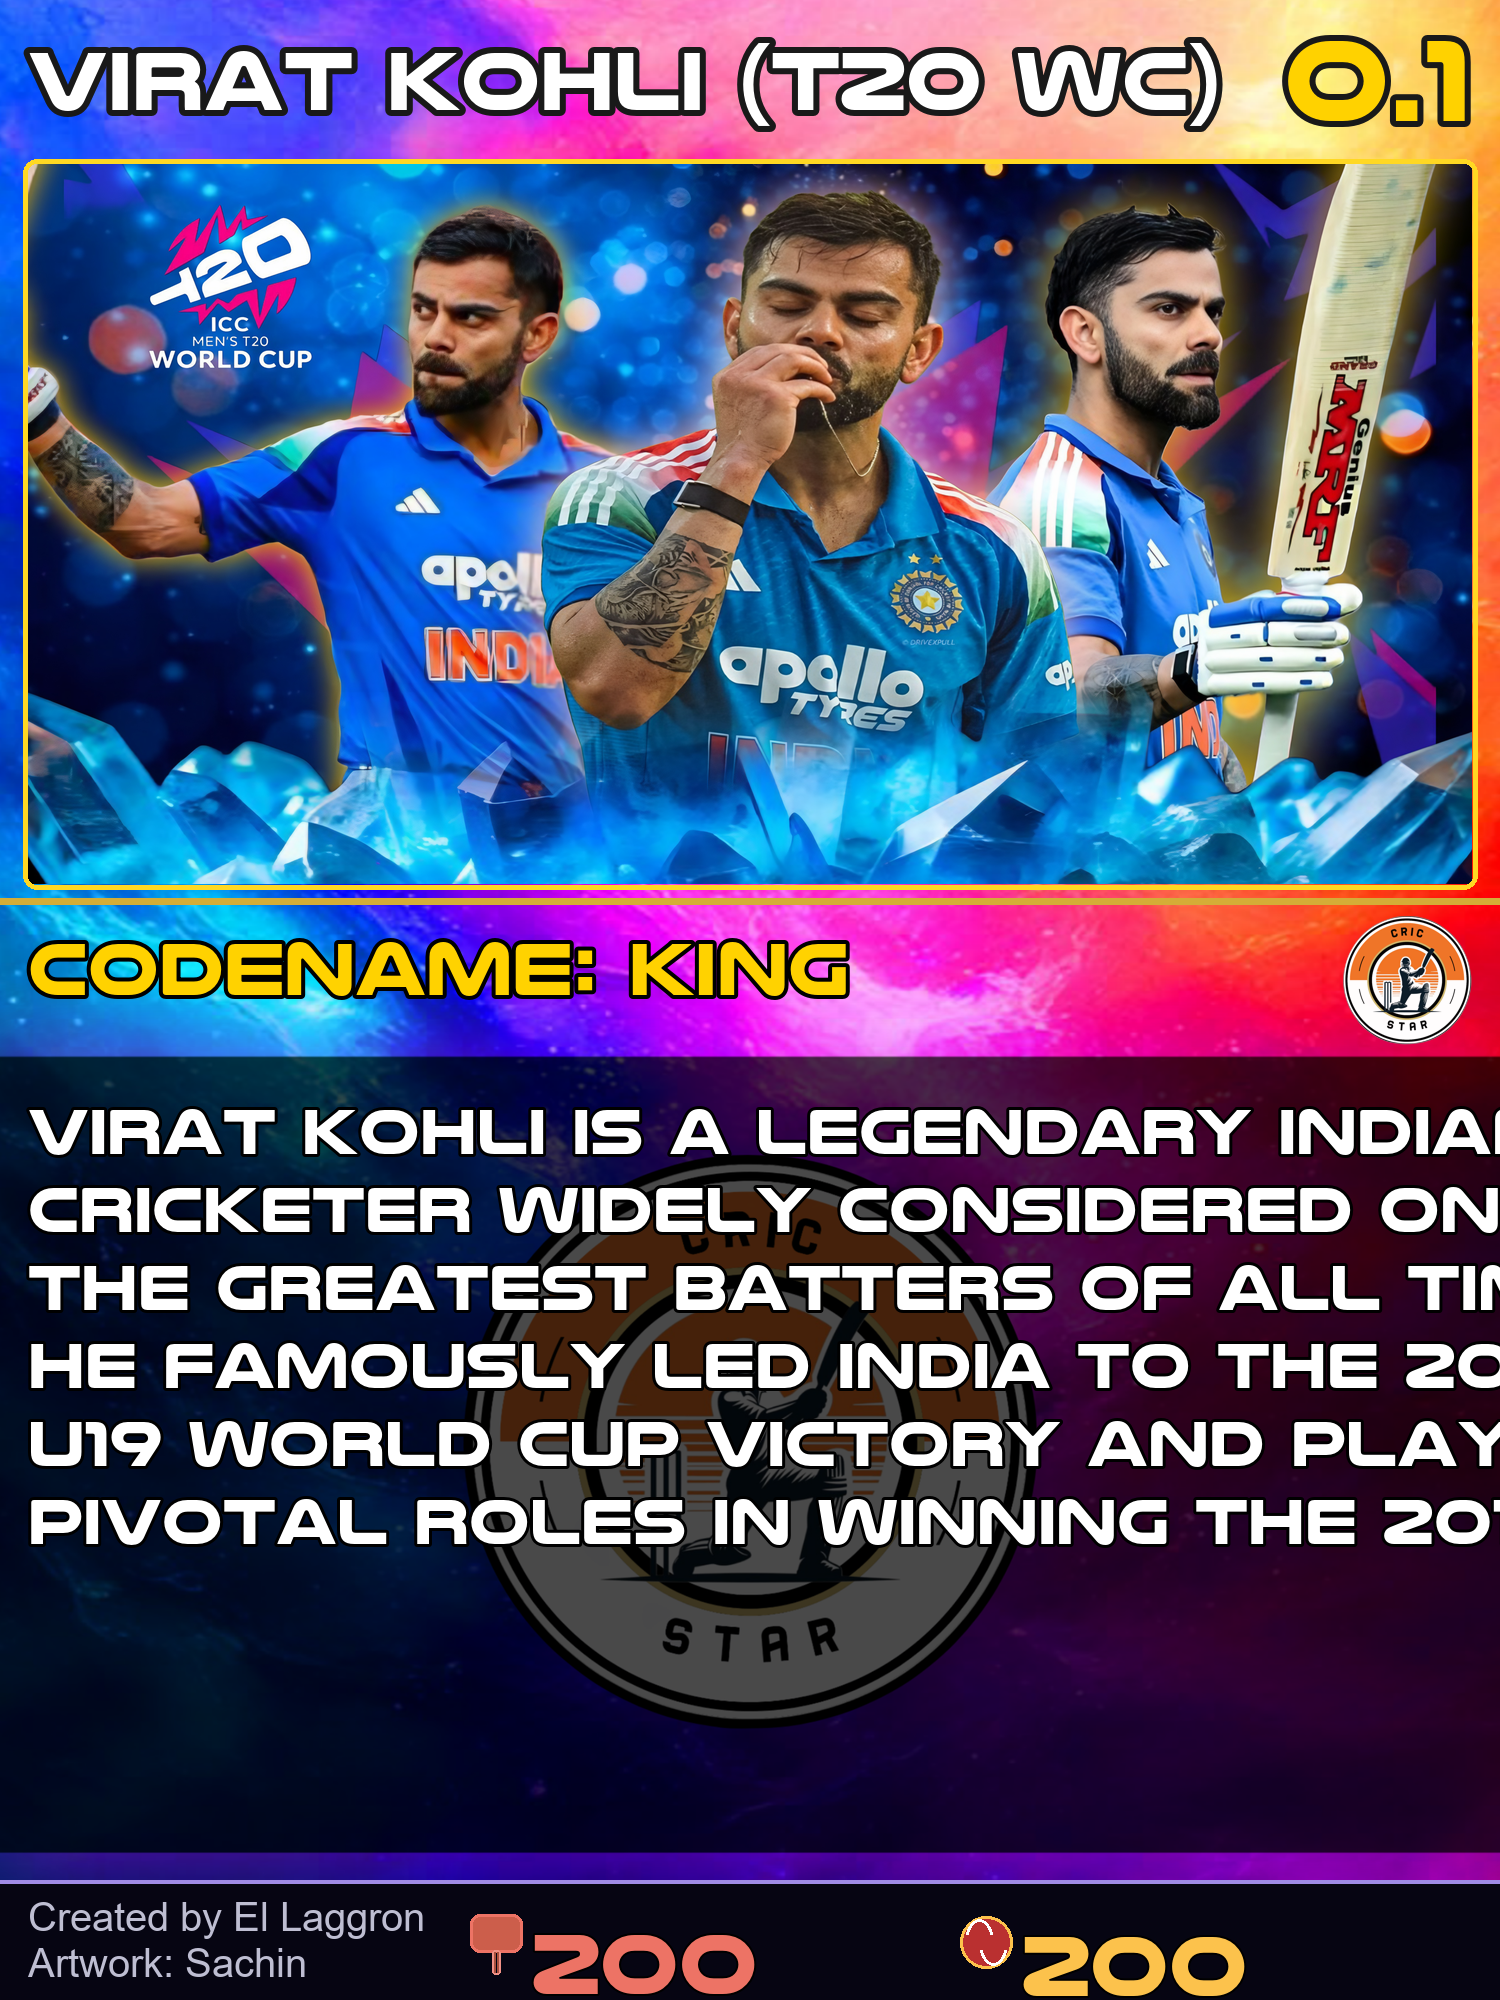
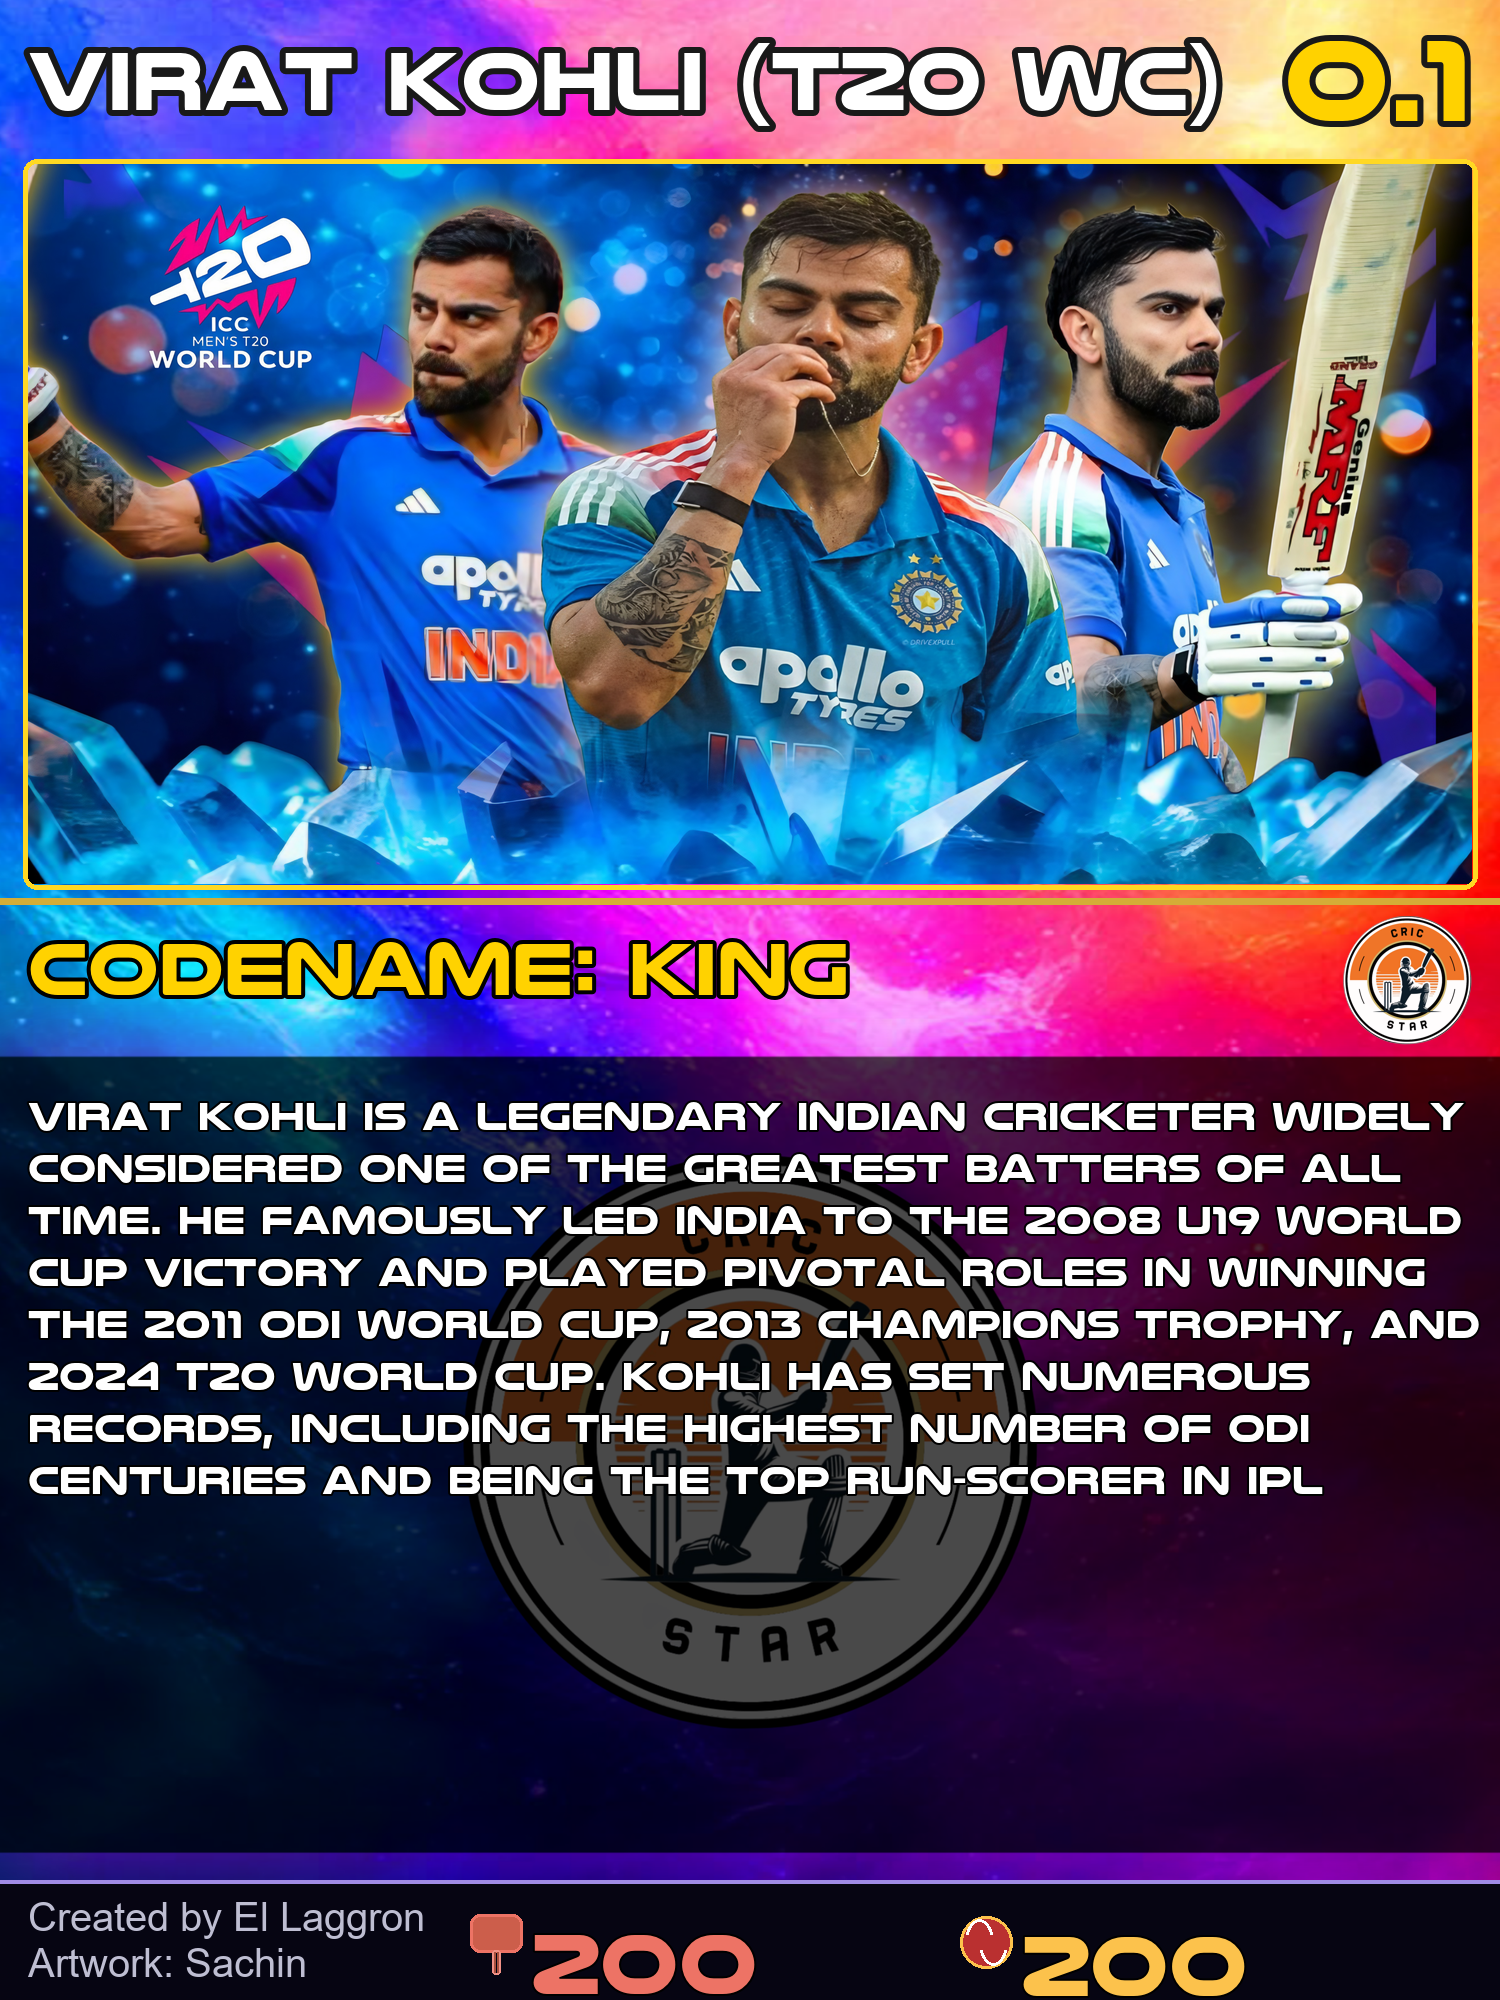
Add ability to specify a custom display name for player cards
Update card creation and editing commands to include an optional `display_name` field, allowing for custom text on card headers separate from the internal player identifier.

Replit-Commit-Author: Agent
Replit-Commit-Session-Id: 9b9d6ef0-e62e-450b-9834-678e2d92ae2f
Replit-Commit-Checkpoint-Type: full_checkpoint
Replit-Commit-Event-Id: 60f8ccf9-deaa-4bd9-9327-0f224cd27880
Replit-Helium-Checkpoint-Created: true

Changed region(s): [[0.0, 0.527, 1.0, 0.775]]

diff --git a/cricstar/packages/admin/cog.py b/cricstar/packages/admin/cog.py
@@ -386,7 +386,8 @@ class Admin(commands.Cog):
     @commands.hybrid_command(name="cardmaker")
     @checks.is_superuser()
     @app_commands.describe(
-        player_name="Unique name of the cricketer",
+        player_name="Unique identifier name of the cricketer (used for DB/file lookup)",
+        display_name="Name shown on the card header — if blank, player_name is used",
         codename="Codename shown on the card (e.g. KING KOHLI)",
         description="Description text shown on the card",
         bat_score="Bat / health score shown on left (e.g. 342)",
@@ -423,6 +424,7 @@ class Admin(commands.Cog):
         event: str = "none",
         tradeable: bool = True,
         spawnable: bool = True,
+        display_name: str = "",
     ):
         """
         Generate a Dembele-style cricket card and add it to the database.
@@ -431,6 +433,9 @@ class Admin(commands.Cog):
         background: preset name or URL. foreground: URL or saved preset name.
         """
         await ctx.defer()
+
+        # display_name is what shows on the card header; player_name is used for slug/file
+        card_name = display_name.strip() if display_name.strip() else player_name
 
         slug = re.sub(r"[^a-z0-9]+", "_", player_name.lower().strip()).strip("_")
         filename = f"premade_{slug}.png"
@@ -527,7 +532,7 @@ class Admin(commands.Cog):
 
             def _generate() -> tuple:
                 return draw_premade_card(
-                    bg_path, fg_path, player_name, codename, description,
+                    bg_path, fg_path, card_name, codename, description,
                     rarity, bat_score, ball_score, artwork_author, logo_path,
                 )
 
@@ -539,7 +544,7 @@ class Admin(commands.Cog):
             image.close()
 
             ball = await Ball.objects.acreate(
-                country=player_name,
+                country=card_name,
                 health=bat_score,
                 attack=ball_score,
                 rarity=spawn_chance / 100,
@@ -595,7 +600,8 @@ class Admin(commands.Cog):
     @commands.hybrid_command(name="editcard")
     @checks.is_superuser()
     @app_commands.describe(
-        player_name="Exact name of the cricketer to edit",
+        player_name="Exact name of the cricketer to edit (use the name stored in DB)",
+        display_name="Change the name shown on the card header (leave blank to keep existing)",
         background="Preset name or URL (leave blank to keep / use base_background)",
         foreground="Player image URL or preset name (leave blank to use saved preset)",
         codename="New codename shown on card (leave blank to keep existing)",
@@ -613,6 +619,7 @@ class Admin(commands.Cog):
         self,
         ctx: commands.Context["CricStarBot"],
         player_name: str,
+        display_name: str = "",
         background: str = "",
         foreground: str = "",
         codename: str = "",
@@ -720,6 +727,7 @@ class Admin(commands.Cog):
                 _shutil.copy2(fg_path, str(fg_preset))
 
                 # Resolve display values (use new value or fall back to existing DB value)
+                _card_name = display_name.strip() or ball.country
                 _codename = codename.strip() or ball.capacity_name or ""
                 _description = description.strip() or ball.capacity_description or ""
                 _rarity = rarity if rarity is not None else ball.rarity * 100
@@ -744,7 +752,7 @@ class Admin(commands.Cog):
 
                 def _generate() -> tuple:
                     return draw_premade_card(
-                        bg_path, fg_path, player_name, _codename, _description,
+                        bg_path, fg_path, _card_name, _codename, _description,
                         _rarity, _bat, _ball, _author, logo_path,
                     )
 
@@ -760,6 +768,9 @@ class Admin(commands.Cog):
                 changed_fields += ["wild_card", "collection_card"]
 
         # --- Apply text / stat field changes ---
+        if display_name.strip():
+            ball.country = display_name.strip()
+            changed_fields.append("country")
         if codename.strip():
             ball.capacity_name = codename.strip()
             changed_fields.append("capacity_name")
@@ -798,6 +809,8 @@ class Admin(commands.Cog):
         summary_parts = []
         if regen:
             summary_parts.append("Card image regenerated")
+        if display_name.strip():
+            summary_parts.append(f"Display name → `{ball.country}`")
         if codename.strip():
             summary_parts.append(f"Codename → `{ball.capacity_name}`")
         if description.strip():
